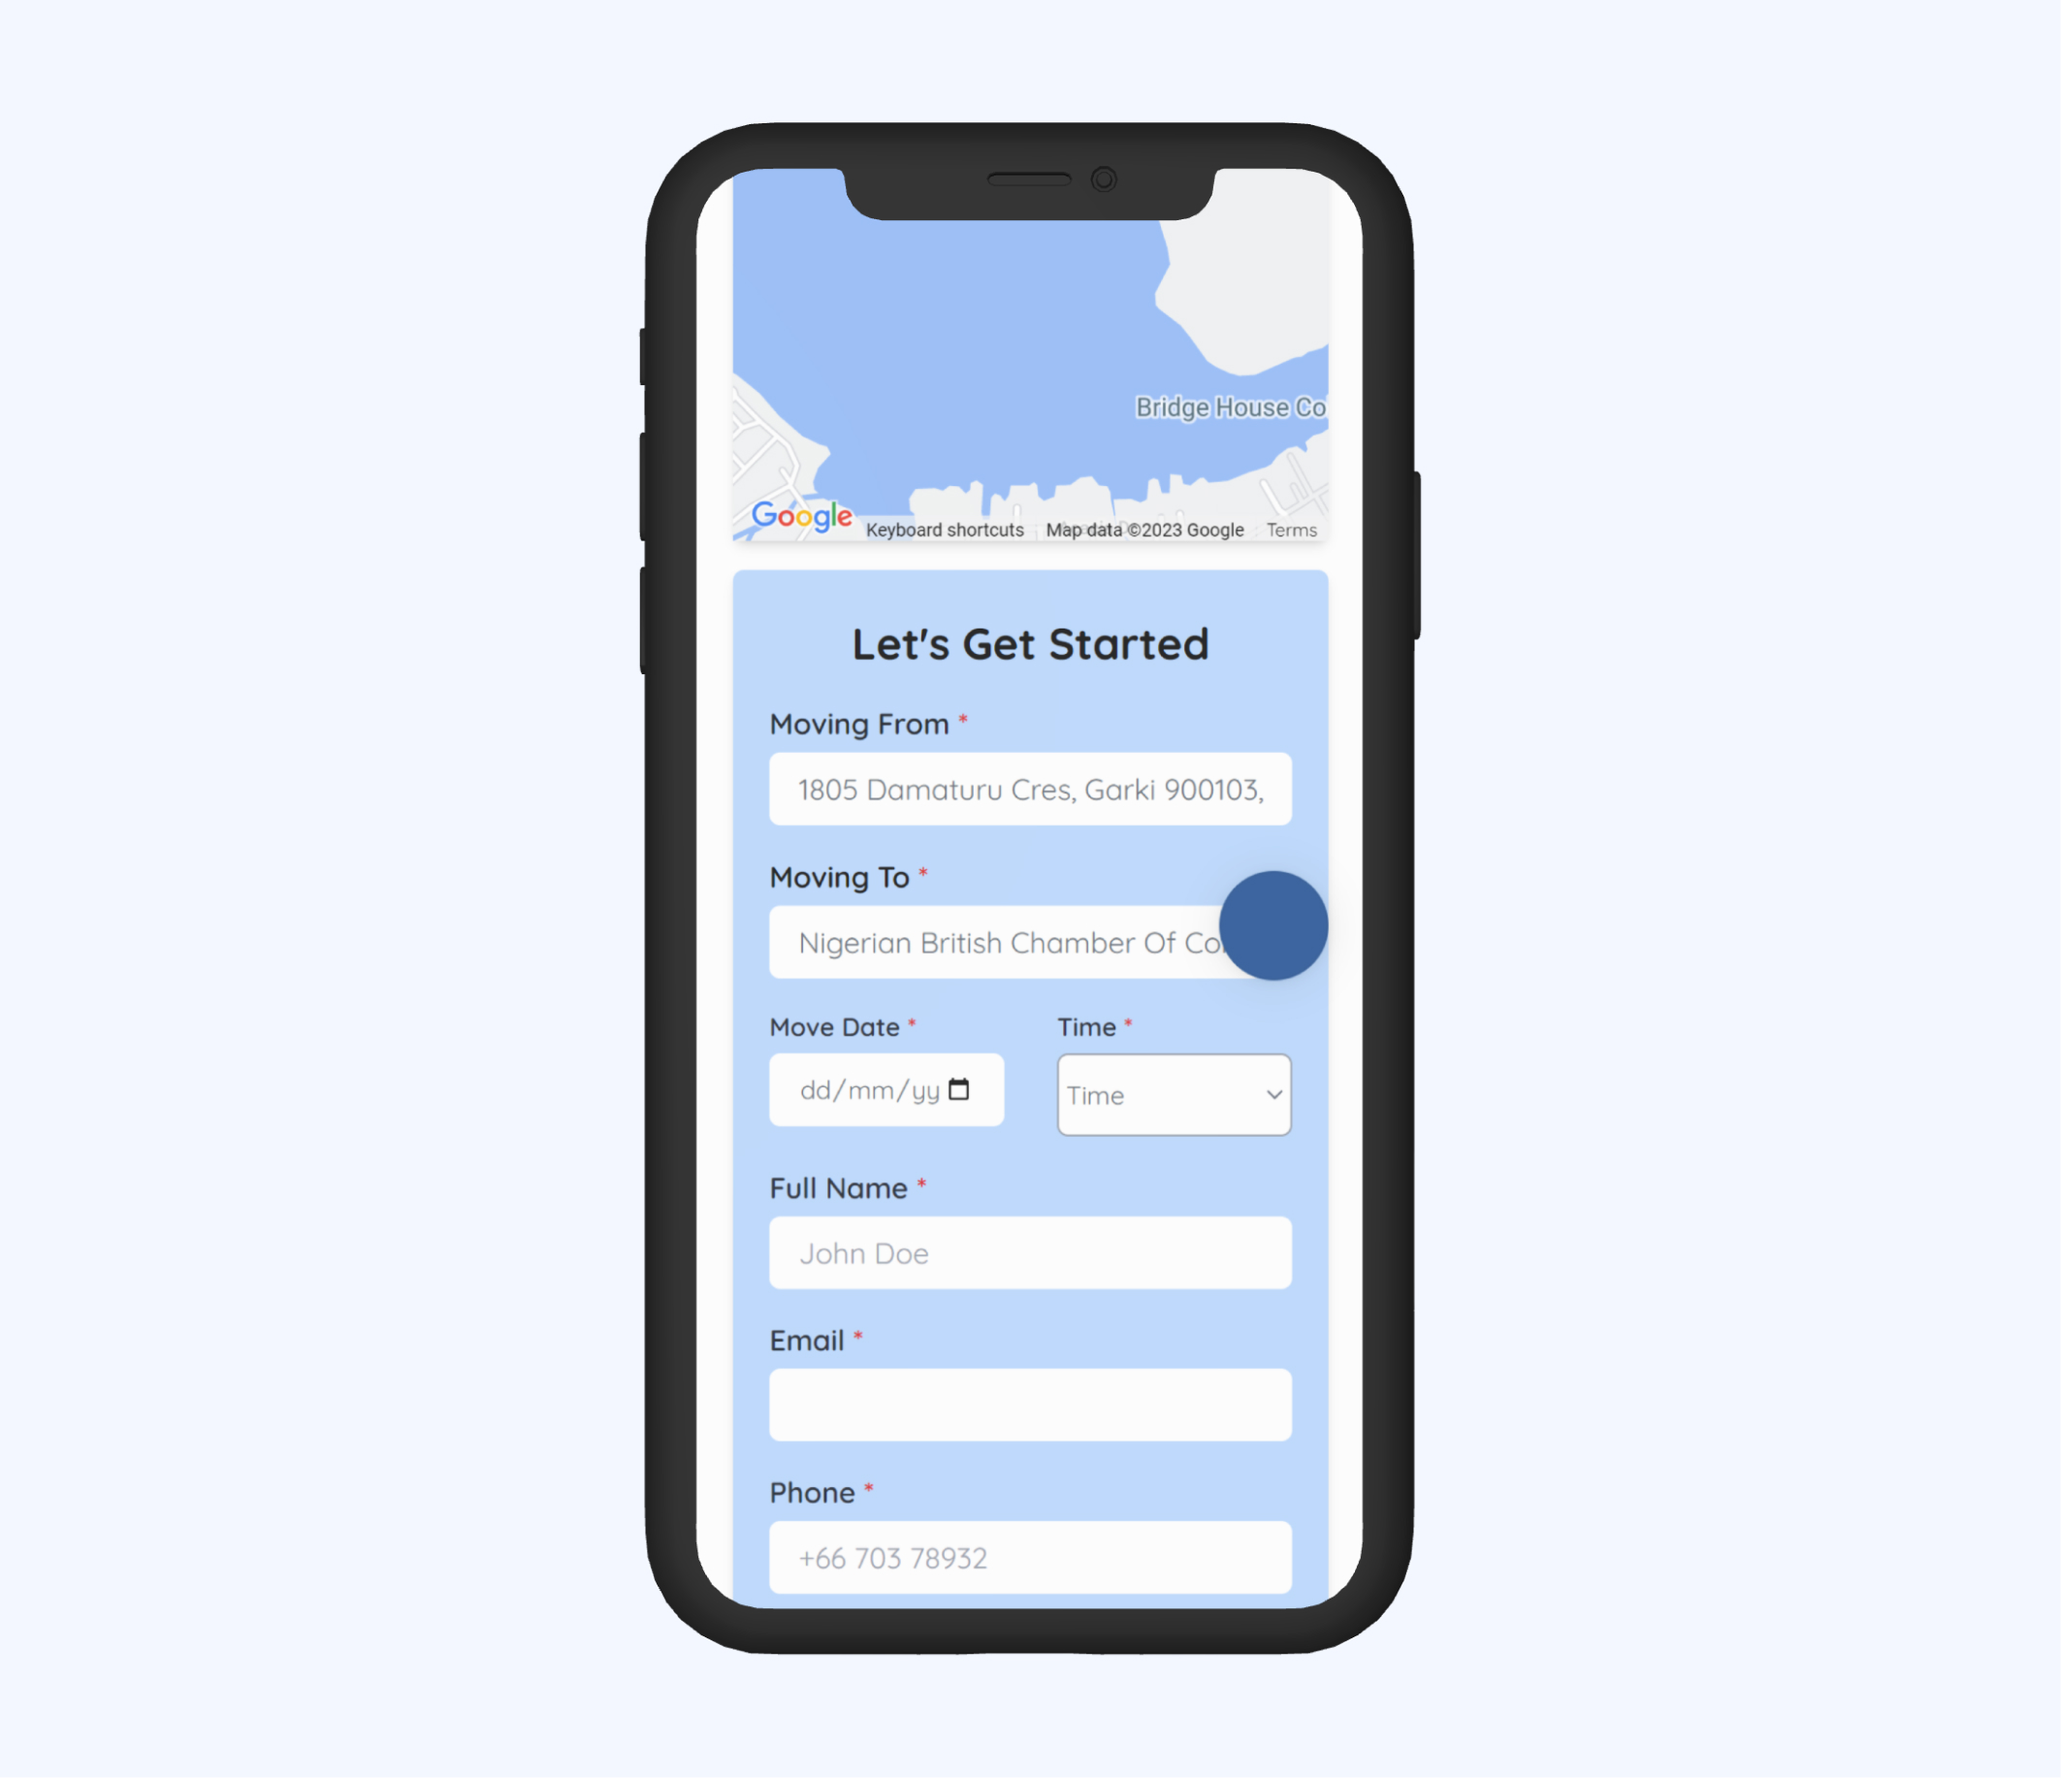
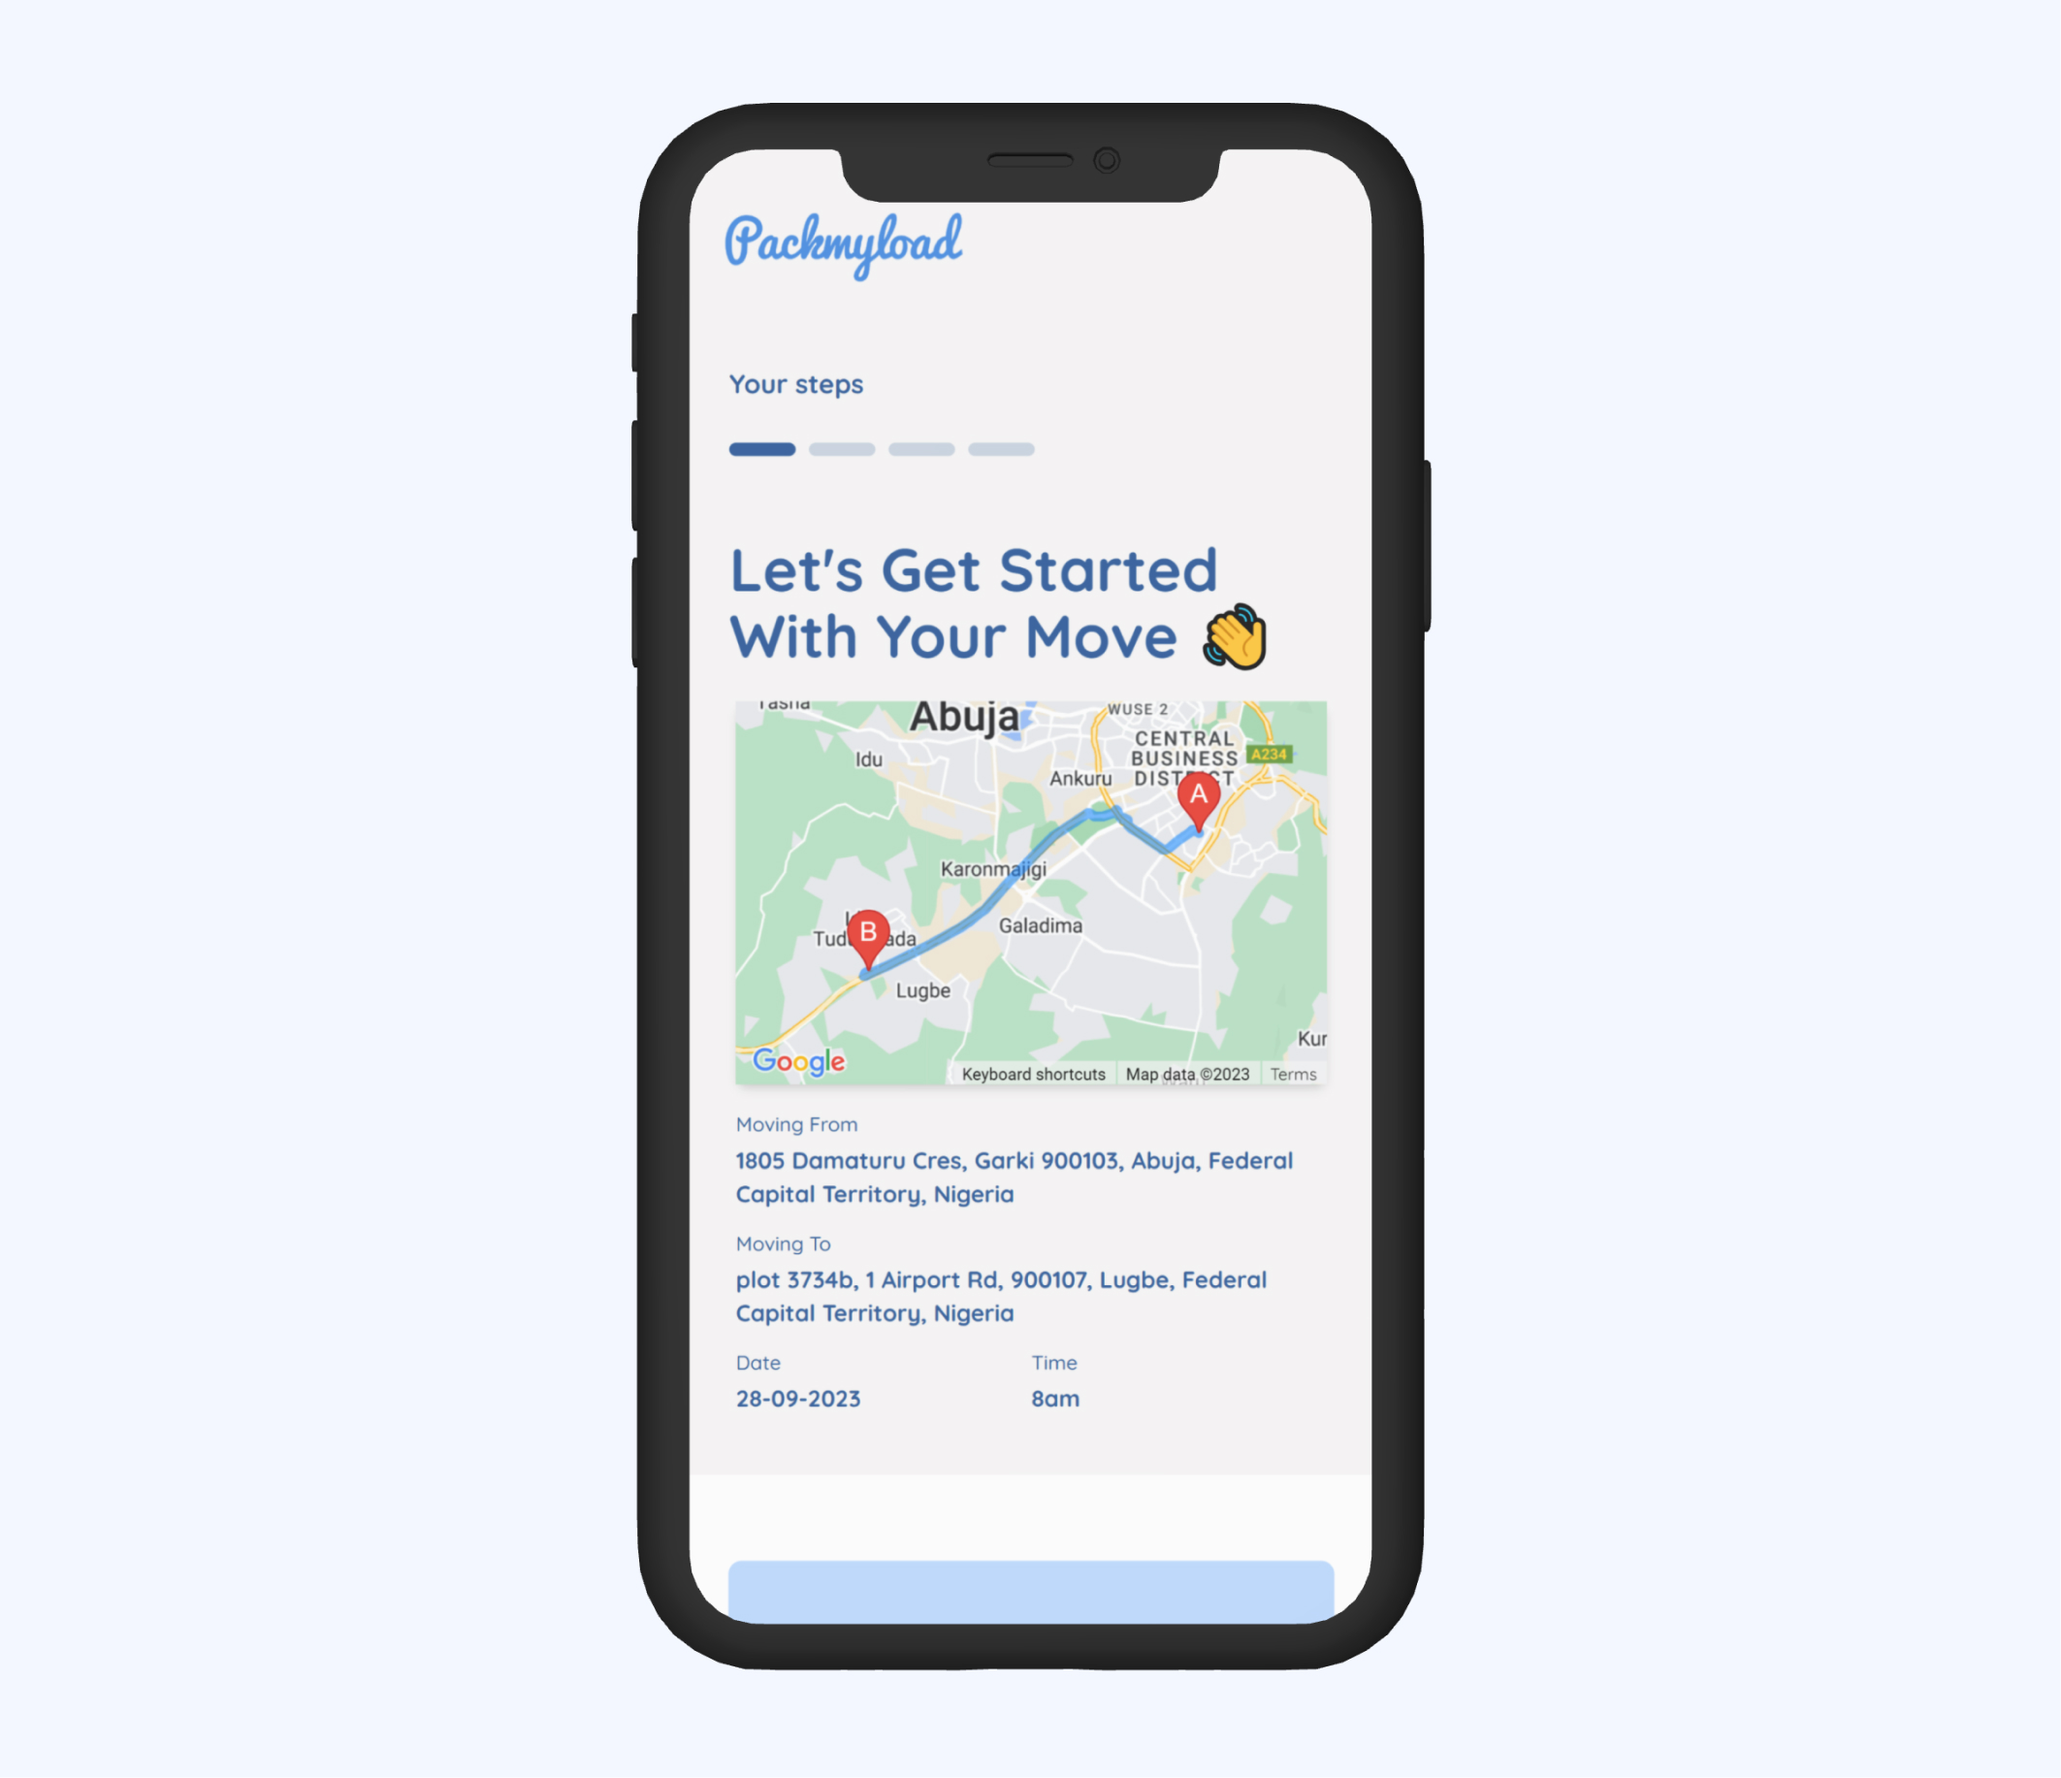
chore: updated mockup images

Changed region(s): [[0.2795, 0.0311, 0.7144, 0.964]]

diff --git a/app/book_a_move/checkout/page.tsx b/app/book_a_move/checkout/page.tsx
@@ -273,15 +273,15 @@ const rightContent=(
                             Confirm that you read and accept our <span><a href="/terms" className="text-sm text-gray-800 underline">terms and conditions</a></span> policy.
                         </p>
                     </div>
-                    <div className="flex flex-row-reverse w-full justify-evenly">
+                    <div className="flex flex-row-reverse w-full justify-evenly gap-2">
                     <button
-                        className={`text-md font-semibold text-white  hover:bg-white hover:text-blue-300 px-4 py-2 rounded-md bg-blue-500`}
+                        className={`text-sm md:text-md font-semibold text-white  hover:bg-white hover:text-blue-300 px-4 py-2 rounded-md bg-blue-500`}
                         onClick={handlePaymentGateway}
                     >
                         PROCEED TO CHECKOUT
                     </button>
                     <button
-                        className={`text-md font-semibold text-white hover:bg-white hover:text-blue-300 px-4 py-2 rounded-md bg-blue-500`}
+                        className={`text-sm md:text-md font-semibold text-white hover:bg-white hover:text-blue-300 px-4 py-2 rounded-md bg-blue-500`}
                         onClick={handleMailQuote}
                     >
                         MAIL ME MY QUOTE

diff --git a/components/landing/ProcedureCards.tsx b/components/landing/ProcedureCards.tsx
@@ -26,7 +26,7 @@ export const ProcedureCards: React.FC = () => {
                         title="Finalize Your Move" 
                         step="STEP 3"
                         addon="Edit your move if necessary"
-                        imageUrl="/images/select-address.jpg"
+                        imageUrl="/images/final-move.jpg"
                     />
                 </div>
             </div>
